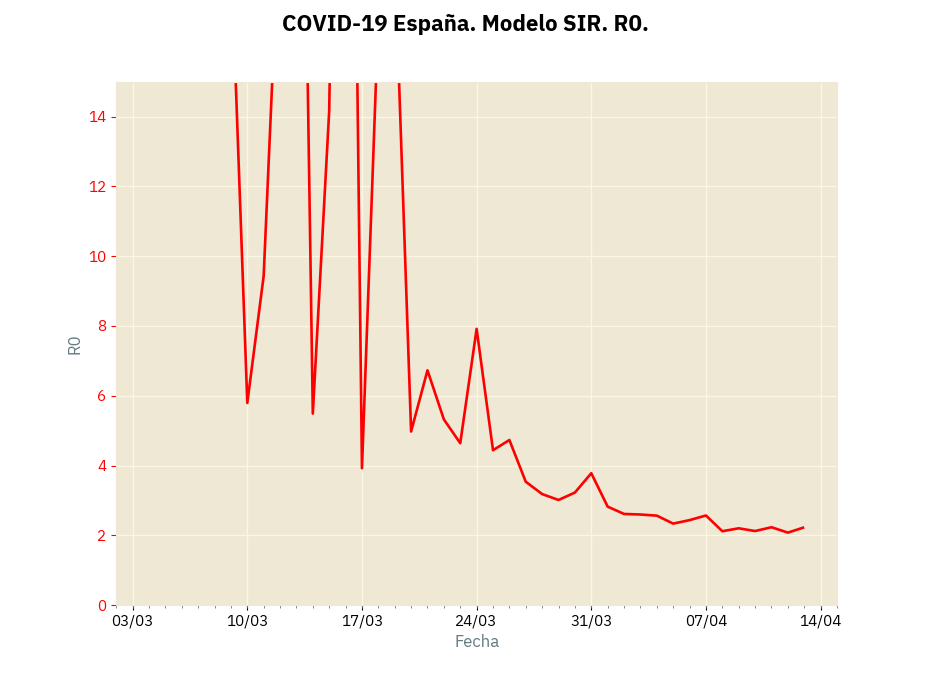
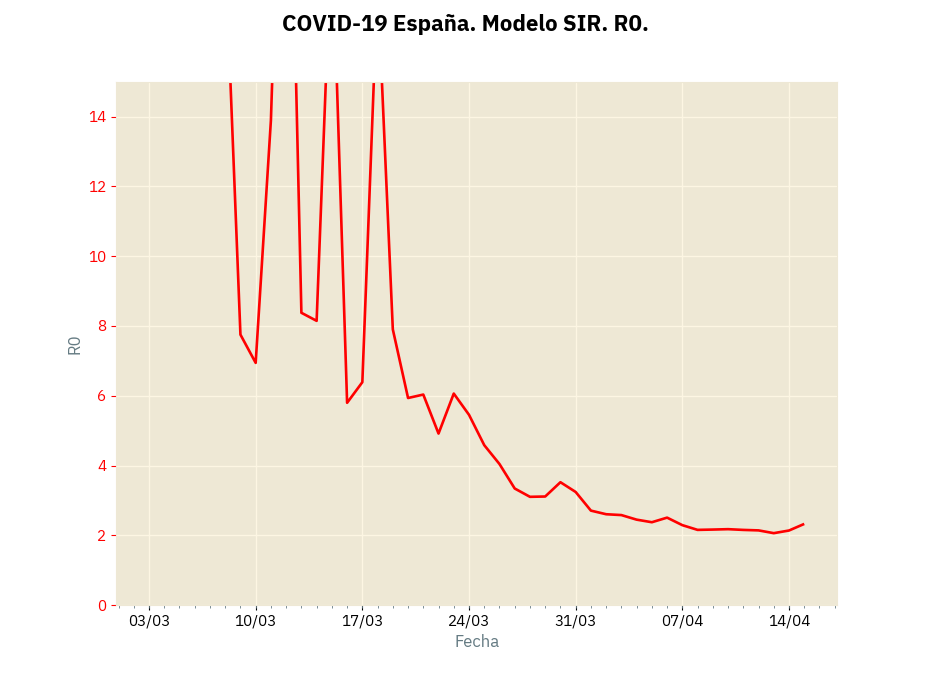
2020-04-15

diff --git a/sir.py b/sir.py
@@ -88,7 +88,12 @@ def dFdt(F):
     """
     dfdt = [0]
     for i in range(1,len(F)):
-        dfdt.append( F[i] - F[i-1])
+        if i == 0:
+            dfdt.append(F[1]-F[0])
+        elif i == len(F)-1:
+            dfdt.append(F[len(F)-1]-F[len(F)-2])
+        else:
+            dfdt.append(0.5*(F[i+1] - F[i-1]))
     return dfdt
 
 ## Conversión de fechas
